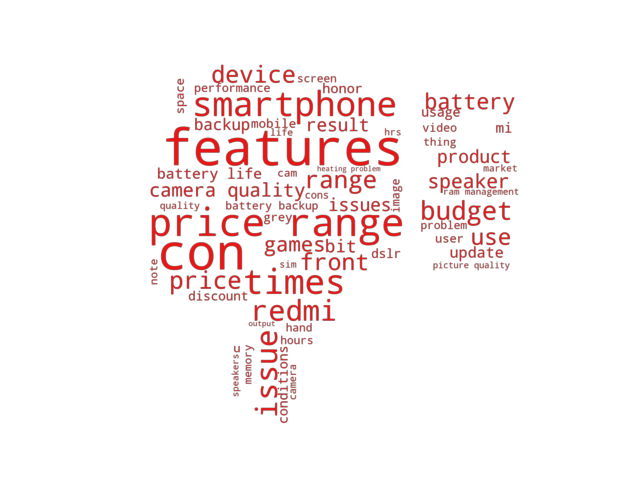
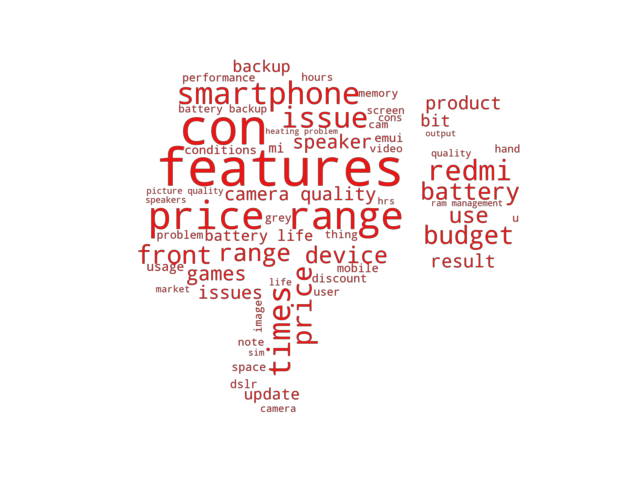
aws working

Changed region(s): [[0.2188, 0.125, 0.625, 0.875], [0.6562, 0.1875, 0.8125, 0.5625]]

diff --git a/Aspect based Senti analysis/aws/finalreviewscraper/movies.py b/Aspect based Senti analysis/aws/finalreviewscraper/movies.py
@@ -137,10 +137,11 @@ def success(name):
 
     i=0
     for key, value in sorted(aspects_dict.iteritems(), key=lambda (k,v): (v,k),reverse = True):
-        if i < 15:
+        if i < 100:
             navg=0.0
             pavg=0.0
-            aspects_top.append((key.encode('utf-8'),len(value)))
+            if i<10:
+                aspects_top.append((key.encode('utf-8'),len(value)))
             sent_score_pos=[]
             sent_score_neg=[]
             for ke in aspects_dict[key].keys():
@@ -155,7 +156,9 @@ def success(name):
                 pavg = numpy.sum(sent_score_pos)/(len(sent_score_pos)+len(sent_score_neg))
             if sent_score_neg:
                 navg = numpy.sum(sent_score_neg)/(len(sent_score_pos)+len(sent_score_neg))
-            aspects_list[key.encode('utf-8')] = (round(pavg,3),round(navg,3))
+            if i<10:
+                aspects_list[key.encode('utf-8')] = (round(pavg,3),round(navg,3))
+            aspects_wc[key.encode('utf-8')] = (round(pavg,3),round(navg,3))
             i=i+1
 
 
